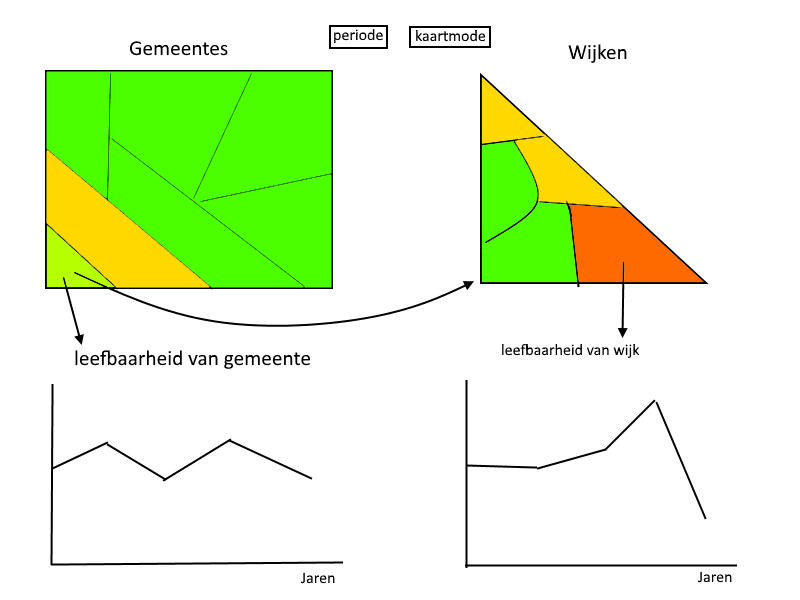
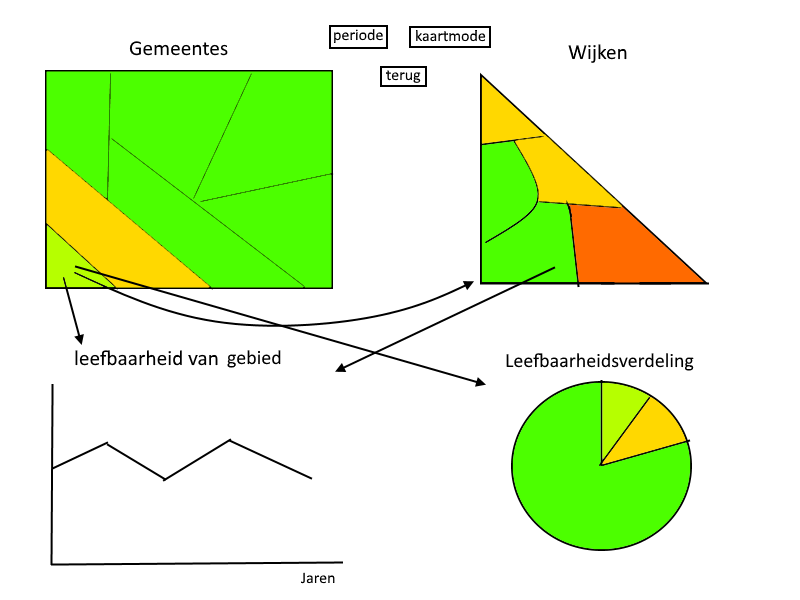
translated and improved proposal

diff --git a/README.md b/README.md
@@ -1,26 +1,38 @@
 # minorproject
+Koen Dielhoff
+
 ## Problem statement
-Waar kan je het best leven in nederland als geld geen probleem is?  
+Which part of the Netherlands is best to live in if money is of no concern?
 
 ## solution
-met de data van de leefbaarometer, zou het mogelijk moeten zijn om makkelijk te zien waar het best geleefd wordt.  
+The "leefbaarometer" has data about how well people are living in certain areas of the Netherlands. This data just has to be visualised.
+
+![missing picture](https://github.com/koenkoen1/minorproject/blob/master/doc/plaatje.png)
 
 ### features (minimum viable product)
-leefbaarheidkaart voor gemeentes in land  
-leefbaarheidkaart voor wijken in gekozen gemeente  
-leefbaarheidsgrafiek voor gekozen gemeente over bepaalde tijd  
-leefbaarheidsgrafiek voor gekozen wijk over bepaalde tijd  
-dropdownbox voor periodes van jaren  
-dropdownbox voor keuze tussen modes op de kaart(huidige leefbaarheid of verandering in leefbaarheid)  
+leefbaarheidmap of municipalities in the country that transforms into a map of the districts in the chosen municipality.
+linegraph  of leefbaarheid in a chosen municipality/district over a period of time.
+piechart with distribution of leefbaarheid in the country/chosen municipality.
+dropdownbox for time periods
+dropdownbox to choose between current leefbaarheid and change in leefbaarheid.
+Button to return to the map of municipalities in the country.
 
 ## prerequisites
 ### data source
 https://data.overheid.nl/data/dataset/leefbaarometer-2-0---meting-2016  
-de leefbaarometer score is afhankelijk van 100 indicatoren die in 5 dimensies zijn ingedeeld:
-1. woningen (aantal woningen, aandeel vrijstaande woningen, etc)
-2. bewoners (aandeel allochtonen, ouderen of eenoudergezinnen, etc)
-3. voorzieningen (afstand tot voorziening, scholen en doctors binnen 1 km, verdwenen supermarkten, etc)
-4. veiligheid (overlast, ordeverstoringen, geweld, inbraken)
-5. fysieke omgeving (aantal monumenten, aandeel groen, aandeel water, natuurramp-risico, etc)  
+The leefbaarometer score is dependent on 100 factors divided into categories:
+1. houses (quantity, amount of detached houses, etc)
+2. residents (amount of immigrants, elders or single-parents, etc)
+3. services (distance to services, schools and doctors within 1 km, disappearing grocery stores, etc)
+4. safety (nuisances, disturbances, violence, burglaries)
+5. environment (quantity of monumnets, surface covered with green or water, risks of natural disasters, etc)  
 
-om de vorm en naam van de gemeentes/wijken te krijgen, zal de shapefile geïnterpreteerd moeten worden.  
+### external components
+for converting shapefile to geojson:  
+https://github.com/calvinmetcalf/shapefile-js
+
+### similar visualisations
+none yet
+
+### hardest parts
+Interpreting the shapefile included in the data and visualising the map

diff --git a/PROCESS.md b/PROCESS.md
@@ -1,0 +1,2 @@
+# Day 1
+Decided to update proposal with a third unique graph. Instead of 4 linked interactive graphs of 2 types I will now have 3 different linked interactive graphs.
